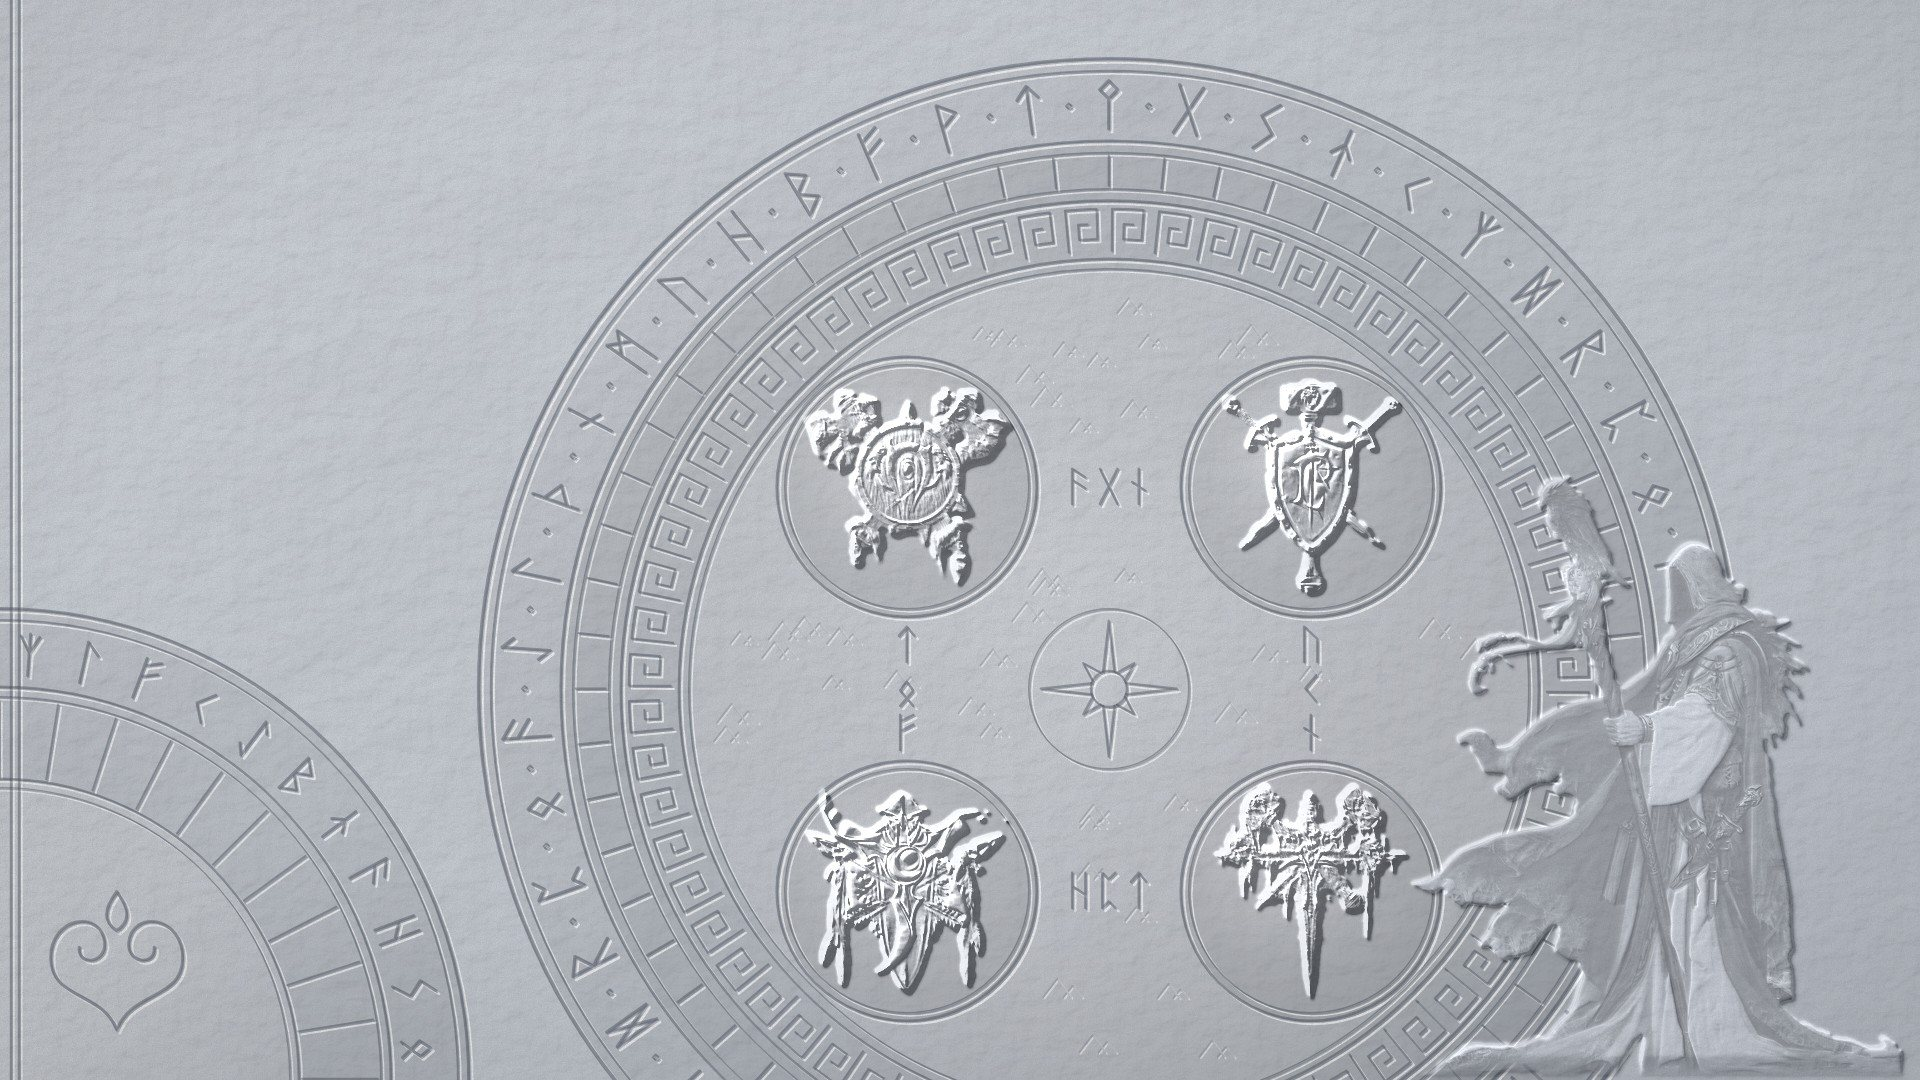
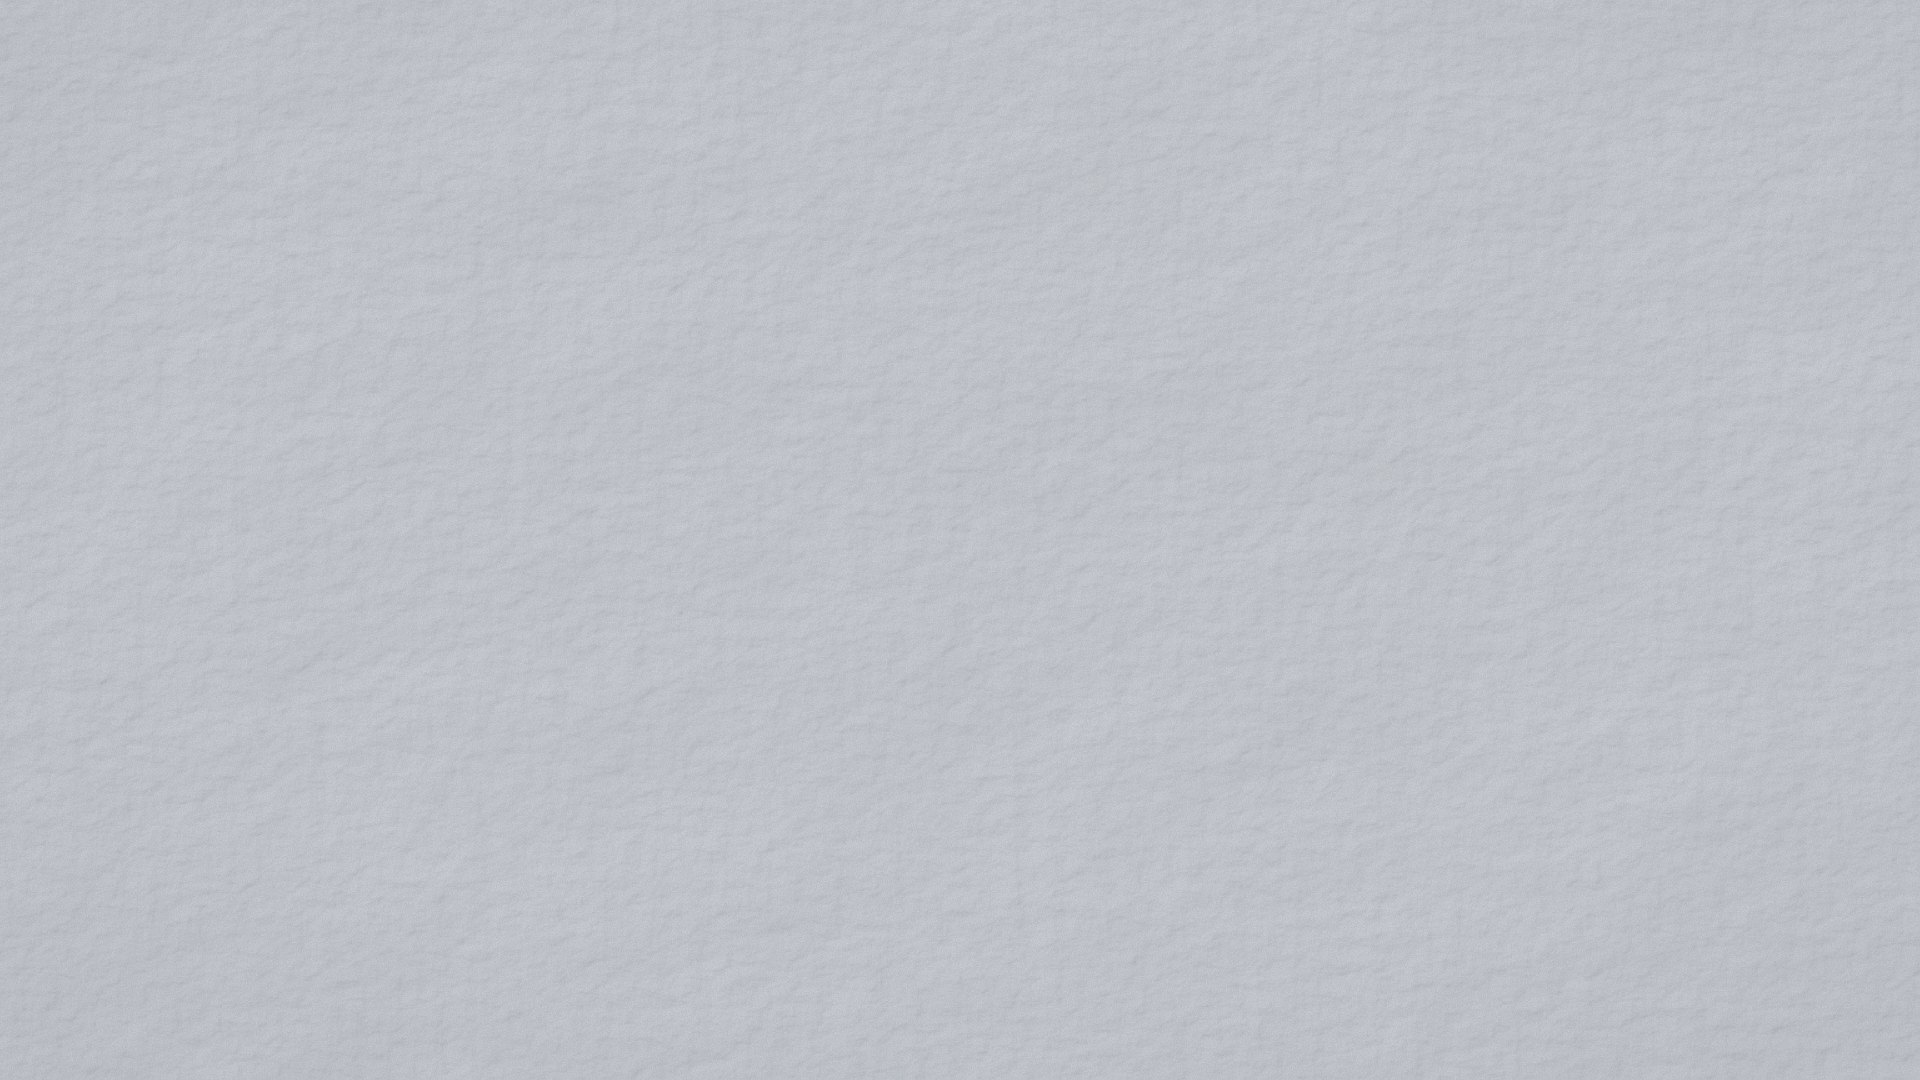
v3.0.7: цайвар горимын дэвсгэр — зураг/хээгүй жигд чулуун гадаргуу (эзний сонгосон өнгө); баруун самбар зөөлөн саарал
- covers/bg-light.jpg хээгүй хувилбараар солигдсон; дээд зурвасын давхарга хасагдсан
- dev: сүлд/Medivh-ийн эх зураг, нэгтгэх скриптүүд хасагдсан (bg-draft-gen.py → bg-texture.svg үлдсэн)

diff --git a/client/src/renderer/gx-fix.css b/client/src/renderer/gx-fix.css
@@ -179,13 +179,13 @@ body.gx .ymdm-input:focus, body.gx .dm-popup-input:focus { border-color: rgba(25
 #portable-bar button { flex: none; height: 30px; padding: 0 12px; border: 0; border-radius: 7px; background: #fff; color: #b91c1c; font: 800 12.5px var(--gx-font, sans-serif); cursor: pointer; }
 
 /* ── Цайвар горимын дэвсгэр (2026-10-03, эзэн): цагаан талбай нүд гялбуулдаг байсан → чулуун сийлбэртэй саарал дэвсгэр
-   (covers/bg-light.jpg: rune цагираг, 4 овгийн сүлд, Medivh; үүсгэгч client/dev/bg-draft-*.py). Бараан горимд хамаарахгүй.
+   (covers/bg-light.jpg: хээгүй чулуун гадаргуу; үүсгэгч client/dev/bg-draft-gen.py → bg-texture.svg). Бараан горимд хамаарахгүй.
    Картууд бага зэрэг тунгалаг (зөвхөн #gx-content дотор — цонх/цэс/popup цул хэвээр). ── */
-html:not([data-gx-theme="dark"]) body.gx .gx-main { background: linear-gradient(180deg, rgba(210,214,220,.94) 0, rgba(210,214,220,.94) 120px, rgba(210,214,220,.62) 190px, rgba(210,214,220,0) 300px), #cfd3d9 url('covers/bg-light.jpg') right bottom / cover no-repeat; }   /* дээд зурвас (гарчгийн бүс) ямар ч цонхны хэмжээнд цэвэр */
+html:not([data-gx-theme="dark"]) body.gx .gx-main { background: #bec2c8 url('covers/bg-light.jpg') center / cover no-repeat; }   /* хээгүй жигд чулуун гадаргуу (2026-10-03: эзэн зураг/хээг хасуулсан) */
 html:not([data-gx-theme="dark"]) body.gx #gx-content { background: transparent !important; }
 html:not([data-gx-theme="dark"]) body.gx .gx-top { background: rgba(236,238,241,.92); }
 html:not([data-gx-theme="dark"]) body.gx #gx-content {
-  --gx-bg: #cfd3d9; --gx-surface: rgba(248,248,246,.86); --gx-surface-2: rgba(238,240,243,.80); --gx-surface-3: rgba(222,226,232,.85);
+  --gx-bg: #bec2c8; --gx-surface: rgba(248,248,246,.86); --gx-surface-2: rgba(238,240,243,.80); --gx-surface-3: rgba(222,226,232,.85);
   --gx-text-2: #2b3140; --gx-text-3: #454c5c;
 }
 /* агуулга доторх дэлгэгддэг жагсаалт/цэс тунгалаг биш */
@@ -198,3 +198,5 @@ html:not([data-gx-theme="dark"]) body.gx #gx-content :is(.gx-sub, .gx-page-head 
 html:not([data-gx-theme="dark"]) body.gx #gx-content .gx-subtabs button:not(.on):not(.active) { color: #2b3140 !important; }
 /* бараан дэвсгэртэй хэсгүүд доторх гарчгуудад гэрэлтэлт хэрэггүй */
 html:not([data-gx-theme="dark"]) body.gx #gx-content :is(.gxcl, .rk-guide, .gxw-hero, .gx-banner, [class*="hero"]) :is(h1, h2, h3) { text-shadow: none; }
+/* баруун талын нарийн самбар ч цагаан биш — дээд мөртэй ижил зөөлөн саарал */
+html:not([data-gx-theme="dark"]) body.gx .gx-rail { background: #e3e6ea; }

diff --git a/client/dev/bg-texture.html b/client/dev/bg-texture.html
@@ -1,0 +1,1 @@
+<!doctype html><meta charset="utf-8"><style>html,body{margin:0;height:100%;overflow:hidden;background:#888}img{display:block;width:100vw;height:100vh;object-fit:cover}</style><img src="bg-texture.svg">

diff --git a/client/dev/bg-draft-gen.py b/client/dev/bg-draft-gen.py
@@ -323,4 +323,7 @@ A(f'<rect width="{W}" height="{H}" fill="url(#vig)"/>')
 A('</svg>')
 open('client/dev/bg-draft.svg', 'w', encoding='utf-8').write('\n'.join(out))
 open('client/dev/bg-draft-plain.svg', 'w', encoding='utf-8').write('\n'.join(out[:PLAIN_AT] + out[PLAIN_TO:]))
+# Хээгүй, жигд өнгөтэй ЧУЛУУН ГАДАРГУУ (2026-10-03: эзэн зураг/хээг хасуулсан — аппад ЭНЭ хувилбар орно: covers/bg-light.jpg)
+tex_defs = out[1].replace(C2, C1).replace('stop-opacity=".11"', 'stop-opacity=".035"')
+open('client/dev/bg-texture.svg', 'w', encoding='utf-8').write('\n'.join([out[0], tex_defs, out[2], out[3]] + out[PLAIN_TO:]))
 print('ok', tone, sum(len(s) for s in out))
